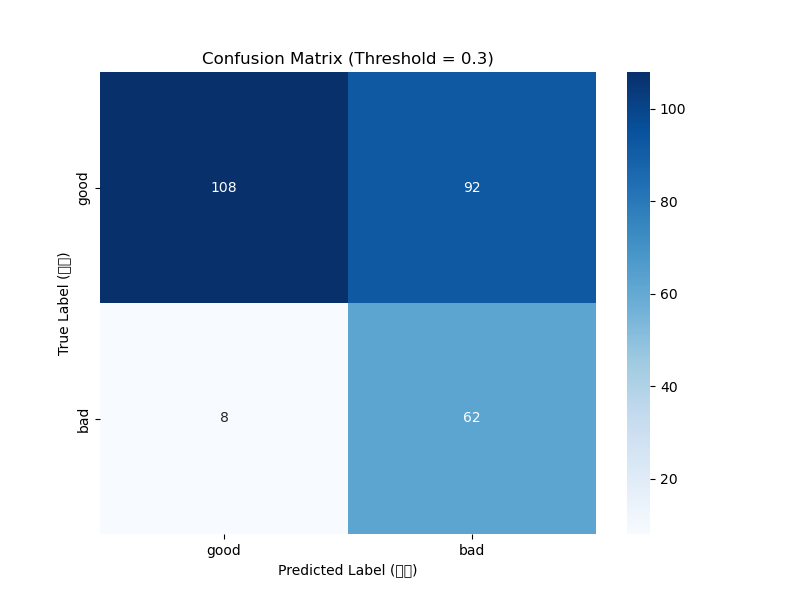
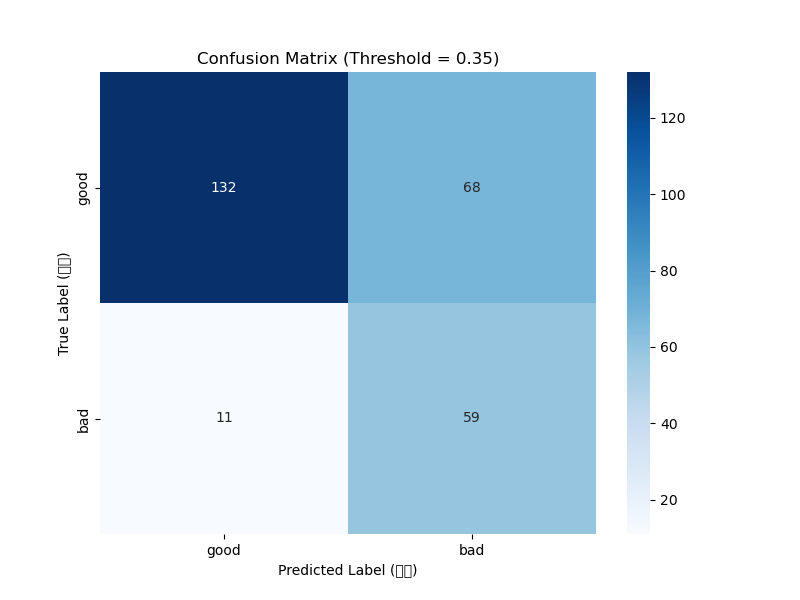
v3.3: 閾値0.35での評価 (Recall 84%, Precision 46%)

diff --git a/evaluate.py b/evaluate.py
@@ -15,7 +15,7 @@ CLASS_NAMES = ['good', 'bad']
 
 # ★ 評価したい閾値（しきい値）
 # 0.5 が厳しそうなら 0.4 や 0.3 に変更して再実行する
-THRESHOLD = 0.3 
+THRESHOLD = 0.35
 
 # ResNet50 の前処理関数
 preprocess_input = tf.keras.applications.resnet50.preprocess_input
